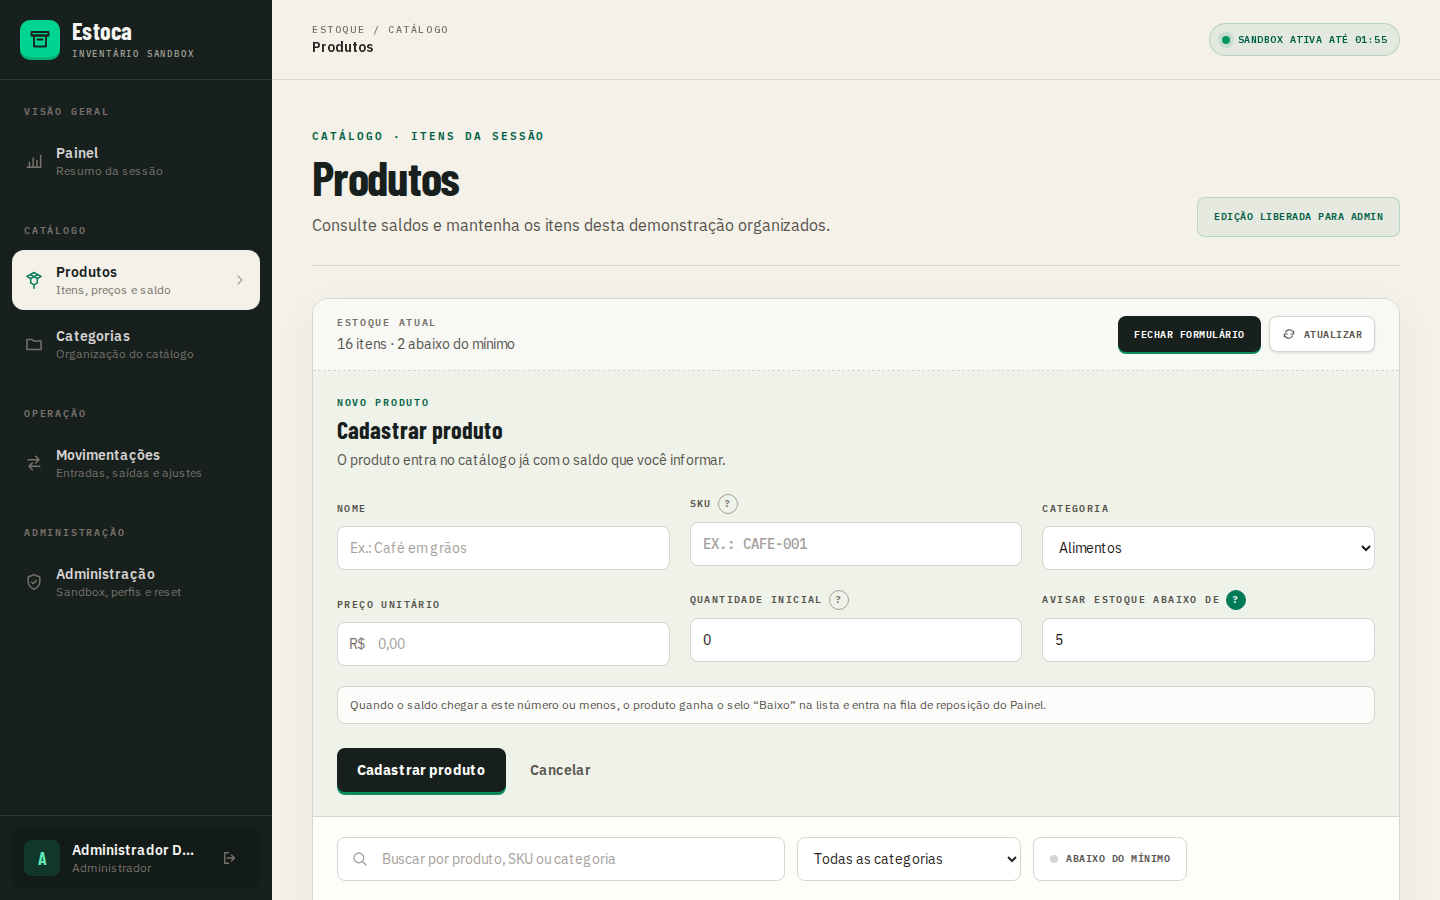
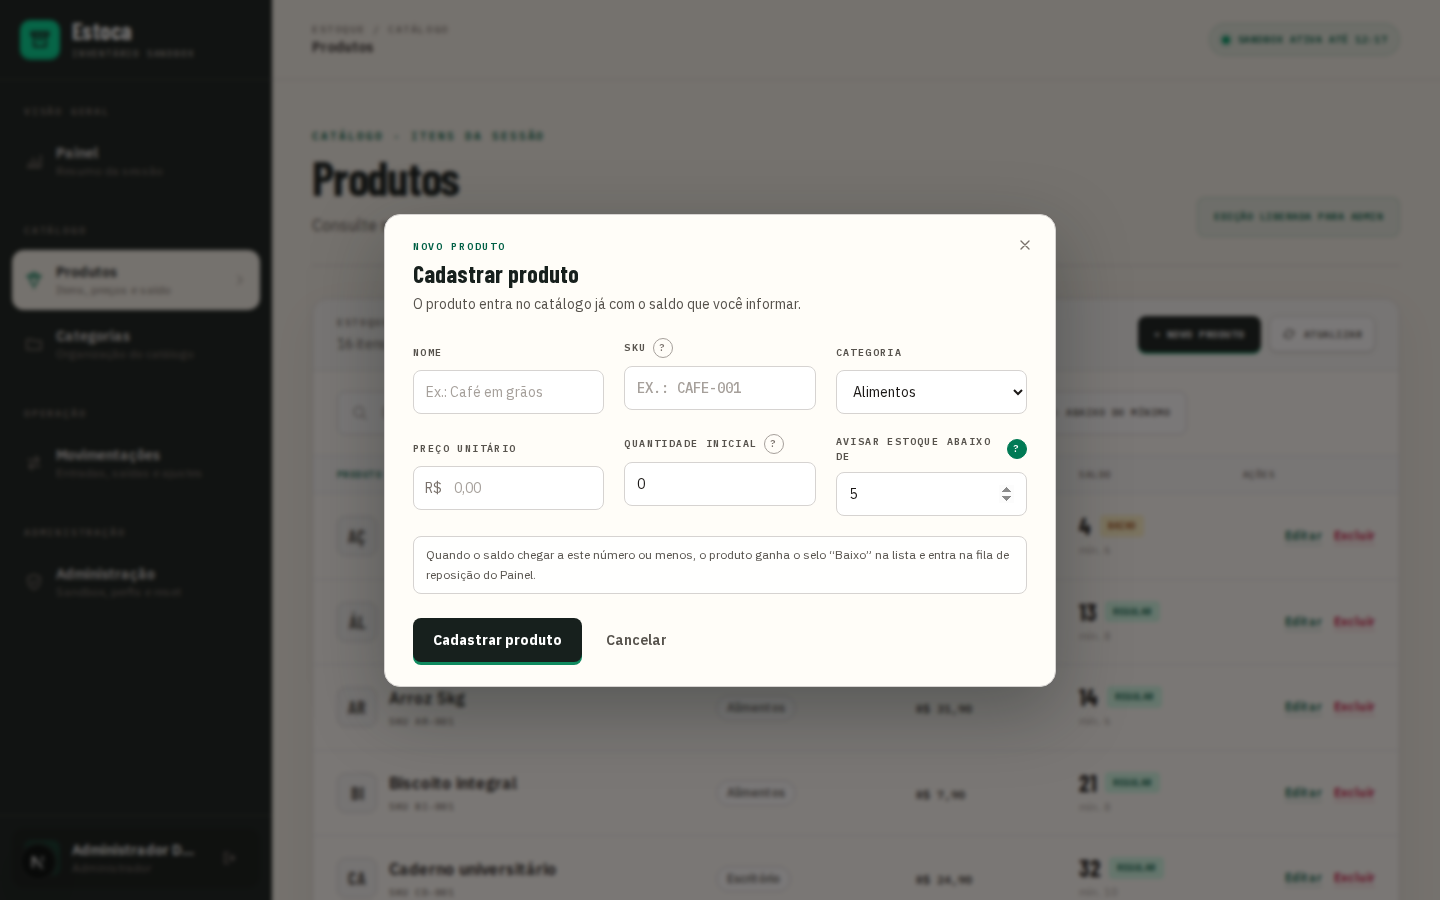
Abre o cadastro de produto em modal
- Move o formulário de Novo produto do topo da tabela para o Modal, com X, Esc, clique fora e Cancelar
- Impede fechar o modal enquanto o cadastro está em andamento
- Mantém o botão + Novo produto com rótulo fixo, já que deixa de alternar o formulário
- Remove o className do ProductForm, que só existia para o uso inline
- Cobre o cadastro com testes E2E: rascunho descartado, foco devolvido, cliques repetidos, envios simultâneos e SKU duplicado
- Atualiza o script de capturas para fechar o modal e regenera a imagem 04-produto-formulario-ajuda
- Atualiza o ARCHITECTURE.md com a cobertura do cadastro

diff --git a/frontend/tests/e2e/product-modal.spec.ts b/frontend/tests/e2e/product-modal.spec.ts
@@ -1,6 +1,6 @@
 import { expect, test, type Page } from "@playwright/test";
 
-const MUTATION_URL = "**/api/v1/products/**";
+const MUTATION_URL = "**/api/v1/products**";
 const MUTATION_DELAY_MS = 1_000;
 
 async function loginAsAdminOnProducts(page: Page) {
@@ -23,12 +23,24 @@ async function loginAsAdminOnProducts(page: Page) {
 async function delayMutations(page: Page, counts: Record<string, number>) {
   await page.route(MUTATION_URL, async (route) => {
     const method = route.request().method();
-    if (method === "PUT" || method === "DELETE") {
+    if (method === "PUT" || method === "DELETE" || method === "POST") {
       counts[method] = (counts[method] ?? 0) + 1;
       await new Promise((resolve) => setTimeout(resolve, MUTATION_DELAY_MS));
     }
     await route.continue();
   });
+}
+
+async function openCreateModal(page: Page) {
+  await page.getByRole("button", { name: "+ Novo produto" }).click();
+  await expect(page.locator("dialog[open]")).toHaveCount(1);
+}
+
+async function fillNewProduct(page: Page, product: { name: string; price: string; sku: string }) {
+  const dialog = page.locator("dialog[open]");
+  await dialog.getByPlaceholder("Ex.: Café em grãos").fill(product.name);
+  await dialog.getByPlaceholder("Ex.: CAFE-001").fill(product.sku);
+  await dialog.locator('input[type="number"]').first().fill(product.price);
 }
 
 test.describe("modais de produto", () => {
@@ -202,5 +214,108 @@ test.describe("modais de produto", () => {
     expect(counts.DELETE).toBe(1);
     await expect(page.locator("ul.divide-y > li")).toHaveCount(total - 1);
     await expect(page.getByText("foi excluído do estoque")).toBeVisible();
+  });
+
+  test("cadastrar abre em modal, com foco no nome e nada no topo da tabela", async ({ page }) => {
+    await openCreateModal(page);
+
+    await expect(page.locator("dialog[open] form")).toHaveCount(1);
+    await expect(page.locator("form:not(dialog form)")).toHaveCount(0);
+    await expect(page.locator("dialog[open]").getByPlaceholder("Ex.: Café em grãos")).toBeFocused();
+    await expect(page.getByRole("button", { name: "Fechar formulário" })).toHaveCount(0);
+  });
+
+  for (const [name, close] of [
+    ["botão X", (page: Page) => page.getByRole("button", { name: "Fechar", exact: true }).click()],
+    ["tecla Esc", (page: Page) => page.keyboard.press("Escape")],
+    ["clique fora", (page: Page) => page.mouse.click(3, 3)],
+    ["Cancelar", (page: Page) => page.getByRole("button", { name: "Cancelar" }).click()],
+  ] as const) {
+    test(`cadastro: fechar por ${name} descarta o rascunho e devolve o foco`, async ({ page }) => {
+      const total = await page.locator("ul.divide-y > li").count();
+      const newButton = page.getByRole("button", { name: "+ Novo produto" });
+
+      await openCreateModal(page);
+      await fillNewProduct(page, { name: "Rascunho", price: "9.90", sku: "RASC-1" });
+      await close(page);
+
+      await expect(page.locator("dialog[open]")).toHaveCount(0);
+      await expect(newButton).toBeFocused();
+      await expect(page.locator("ul.divide-y > li")).toHaveCount(total);
+
+      await openCreateModal(page);
+      const dialog = page.locator("dialog[open]");
+      await expect(dialog.getByPlaceholder("Ex.: Café em grãos")).toHaveValue("");
+      await expect(dialog.getByPlaceholder("Ex.: CAFE-001")).toHaveValue("");
+    });
+  }
+
+  test("cadastro: muitos cliques, envios simultâneos e Enter repetido criam um só produto", async ({
+    page,
+  }) => {
+    const counts: Record<string, number> = {};
+    await delayMutations(page, counts);
+    const total = await page.locator("ul.divide-y > li").count();
+    const dialog = page.locator("dialog[open]");
+
+    await openCreateModal(page);
+    await fillNewProduct(page, { name: "Produto Novo A", price: "12.50", sku: "NOVO-A" });
+    const submit = dialog.getByRole("button", { name: /Cadastrar produto|Cadastrando/ });
+    for (let i = 0; i < 15; i += 1) {
+      await submit.click({ force: true, noWaitAfter: true, timeout: 500 }).catch(() => {});
+    }
+    await expect(page.getByRole("button", { name: "Fechar", exact: true })).toBeDisabled();
+    await page.keyboard.press("Escape");
+    await page.mouse.click(3, 3);
+    await expect(dialog).toHaveCount(1);
+
+    await expect(dialog).toHaveCount(0);
+    expect(counts.POST).toBe(1);
+    await expect(page.locator("ul.divide-y > li")).toHaveCount(total + 1);
+    await expect(page.getByText("Produto Novo A foi cadastrado no estoque.")).toBeVisible();
+    await expect(page.getByRole("button", { name: "+ Novo produto" })).toBeFocused();
+
+    await openCreateModal(page);
+    await fillNewProduct(page, { name: "Produto Novo B", price: "3.00", sku: "NOVO-B" });
+    await dialog.locator("form").evaluate((form: HTMLFormElement) => {
+      for (let i = 0; i < 5; i += 1) form.requestSubmit();
+    });
+    await expect(dialog).toHaveCount(0);
+    expect(counts.POST).toBe(2);
+
+    await openCreateModal(page);
+    await fillNewProduct(page, { name: "Produto Novo C", price: "4.00", sku: "NOVO-C" });
+    await dialog.getByPlaceholder("Ex.: Café em grãos").focus();
+    for (let i = 0; i < 8; i += 1) await page.keyboard.press("Enter");
+    await expect(dialog).toHaveCount(0);
+    expect(counts.POST).toBe(3);
+    await expect(page.locator("ul.divide-y > li")).toHaveCount(total + 3);
+  });
+
+  test("cadastro: SKU duplicado mantém o modal aberto, permite corrigir e o erro some ao reabrir", async ({
+    page,
+  }) => {
+    const existingSku = (await page.locator("ul.divide-y > li").first().locator("p.font-mono").innerText())
+      .replace(/^SKU\s+/i, "")
+      .trim();
+    const total = await page.locator("ul.divide-y > li").count();
+    const dialog = page.locator("dialog[open]");
+
+    await openCreateModal(page);
+    await fillNewProduct(page, { name: "Produto Duplicado", price: "5.00", sku: existingSku });
+    await dialog.getByRole("button", { name: "Cadastrar produto" }).click();
+
+    await expect(dialog.getByRole("alert")).toBeVisible();
+    await expect(dialog).toHaveCount(1);
+    await expect(page.locator("ul.divide-y > li")).toHaveCount(total);
+    await expect(dialog.getByRole("button", { name: "Cadastrar produto" })).toBeEnabled();
+
+    await dialog.getByPlaceholder("Ex.: CAFE-001").fill("SKU-CORRIGIDO");
+    await dialog.getByRole("button", { name: "Cadastrar produto" }).click();
+    await expect(dialog).toHaveCount(0);
+    await expect(page.locator("ul.divide-y > li")).toHaveCount(total + 1);
+
+    await openCreateModal(page);
+    await expect(page.locator("dialog[open]").getByRole("alert")).toHaveCount(0);
   });
 });

diff --git a/frontend/src/components/products/ProductList.tsx b/frontend/src/components/products/ProductList.tsx
@@ -152,6 +152,7 @@ export function ProductList() {
   const [editingProduct, setEditingProduct] = useState<Product | null>(null);
   const [errorMessage, setErrorMessage] = useState<string | null>(null);
   const deleteLock = useRef(false);
+  const [isCreateSaving, setIsCreateSaving] = useState(false);
   const [isEditSaving, setIsEditSaving] = useState(false);
   const [isLoading, setIsLoading] = useState(true);
   const [products, setProducts] = useState<Product[]>([]);
@@ -326,7 +327,6 @@ export function ProductList() {
         </div>
         <div className="flex flex-wrap gap-2 self-start sm:self-auto">
           <AdminAction
-            ariaExpanded={showCreateForm}
             blockedClassName="inline-flex h-9 items-center justify-center gap-1.5 rounded-lg border border-dashed border-stone-400 bg-stone-100 px-4 font-mono text-[10px] font-semibold uppercase tracking-wider text-stone-500 transition hover:border-stone-500 hover:text-stone-700 focus-visible:outline-2 focus-visible:outline-offset-2 focus-visible:outline-stone-600"
             className="inline-flex h-9 items-center justify-center rounded-lg bg-[#17201d] px-4 font-mono text-[10px] font-semibold uppercase tracking-wider text-white shadow-[0_2px_0_#0f8a5f] transition hover:-translate-y-0.5 focus-visible:outline-2 focus-visible:outline-offset-2 focus-visible:outline-emerald-700"
             isAdmin={isAdmin}
@@ -336,10 +336,11 @@ export function ProductList() {
               setSuccessMessage(null);
               setActionError(null);
               setEditingProduct(null);
-              setShowCreateForm((current) => !current);
+              setProductToDelete(null);
+              setShowCreateForm(true);
             }}
           >
-            {isAdmin && showCreateForm ? "Fechar formulário" : "+ Novo produto"}
+            + Novo produto
           </AdminAction>
           <button
             className="inline-flex h-9 items-center justify-center gap-2 rounded-lg border border-stone-300 bg-white px-3 font-mono text-[10px] font-semibold uppercase tracking-wider text-stone-600 shadow-sm transition hover:border-stone-400 hover:text-stone-900 focus-visible:outline-2 focus-visible:outline-offset-2 focus-visible:outline-emerald-700 disabled:cursor-wait disabled:opacity-50"
@@ -355,14 +356,6 @@ export function ProductList() {
           </button>
         </div>
       </div>
-
-      {showCreateForm && isAdmin ? (
-        <ProductForm
-          categories={categories}
-          onCancel={() => setShowCreateForm(false)}
-          onSaved={handleProductCreated}
-        />
-      ) : null}
 
       {restrictionMessage ? (
         <div
@@ -634,6 +627,21 @@ export function ProductList() {
           ) : null}
         </>
       ) : null}
+      {showCreateForm && isAdmin ? (
+        <Modal
+          dismissible={!isCreateSaving}
+          label="Cadastrar produto"
+          onClose={() => setShowCreateForm(false)}
+        >
+          <ProductForm
+            categories={categories}
+            onBusyChange={setIsCreateSaving}
+            onCancel={() => setShowCreateForm(false)}
+            onSaved={handleProductCreated}
+          />
+        </Modal>
+      ) : null}
+
       {editingProduct && isAdmin ? (
         <Modal
           dismissible={!isEditSaving}
@@ -642,7 +650,6 @@ export function ProductList() {
         >
           <ProductForm
             categories={categories}
-            className="px-5 py-6 sm:px-7"
             key={editingProduct.id}
             onBusyChange={setIsEditSaving}
             onCancel={() => setEditingProduct(null)}

diff --git a/frontend/src/components/products/ProductForm.tsx b/frontend/src/components/products/ProductForm.tsx
@@ -13,7 +13,6 @@ import {
 
 interface ProductFormProps {
   categories: Category[];
-  className?: string;
   onBusyChange?: (isBusy: boolean) => void;
   onCancel: () => void;
   onSaved: (product: Product) => void;
@@ -51,12 +50,8 @@ const FIELD_HELP: Record<string, string> = {
   sku: "Código que identifica o produto. Não pode se repetir dentro desta sandbox, e serve para encontrá-lo na busca.",
 };
 
-const INLINE_FORM_CLASS_NAME =
-  "border-b border-stone-300 bg-[#eef2e9] px-5 py-6 sm:px-6";
-
 export function ProductForm({
   categories,
-  className = INLINE_FORM_CLASS_NAME,
   onBusyChange,
   onCancel,
   onSaved,
@@ -124,7 +119,7 @@ export function ProductForm({
     "font-mono text-[10px] font-semibold uppercase tracking-[0.14em] text-stone-600";
 
   return (
-    <form className={className} onSubmit={handleSubmit}>
+    <form className="px-5 py-6 sm:px-7" onSubmit={handleSubmit}>
       <div className="pr-9">
         <p className="font-mono text-[10px] font-semibold uppercase tracking-[0.17em] text-emerald-800">
           {isEditing ? `Editando · ${product?.sku}` : "Novo produto"}

diff --git a/docs/ARCHITECTURE.md b/docs/ARCHITECTURE.md
@@ -234,12 +234,12 @@ produção que bootstrap após recarga, login e movimentação preservam a sandb
 por `X-Session-Id`. A suíte não roda na CI para evitar o download do navegador
 em todos os pushes.
 
-Os modais de edição e exclusão de produto (`components/common/Modal.tsx`, sobre
+Os modais de cadastro, edição e exclusão de produto (`components/common/Modal.tsx`, sobre
 `<dialog>` nativo) têm uma suíte própria em Chromium desktop,
 `tests/e2e/product-modal.spec.ts`, que roda contra o frontend local:
 `PLAYWRIGHT_BASE_URL=http://localhost:3000 npm run test:e2e:modais`. Cobre
 fechar por X, Esc, clique fora e Cancelar (rascunho descartado e foco devolvido),
-duplo clique em Salvar e Excluir (uma única requisição), bloqueio de fechamento
+duplo clique, cliques repetidos e envios simultâneos em Salvar, Cadastrar e Excluir (uma única requisição), bloqueio de fechamento
 durante a operação e o erro real da API (SKU duplicado) dentro do modal.
 
 A suíte atual do backend possui 35 testes. O seed populado, o reset e os
